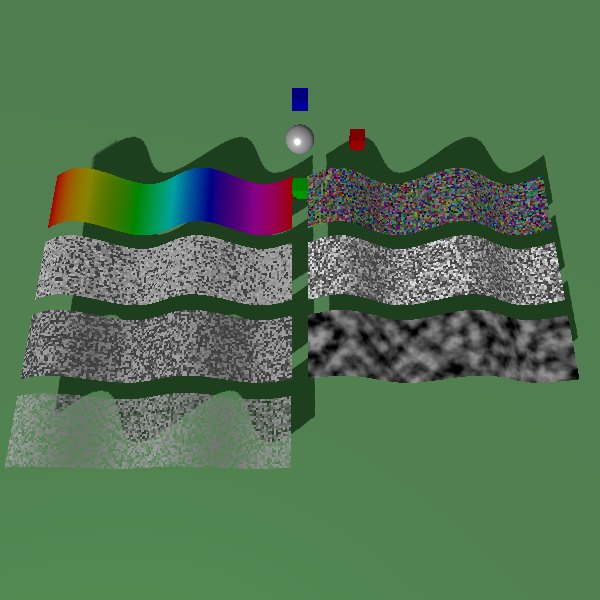
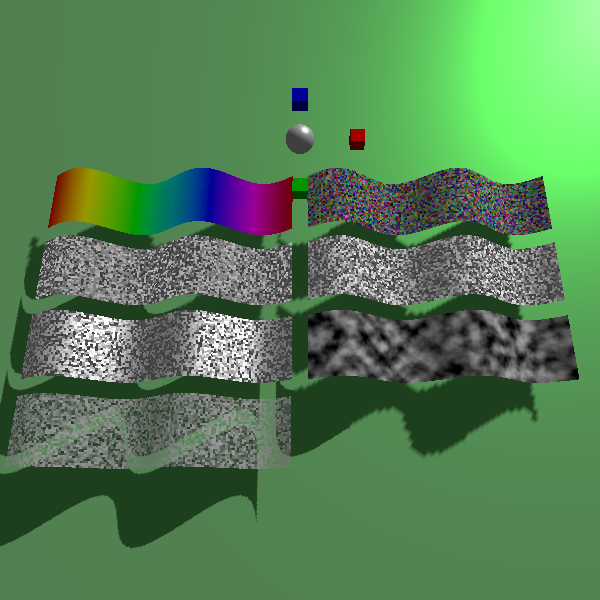
Fix golden image tests

diff --git a/guest/rust/examples/basics/procedural_generation/src/client.rs b/guest/rust/examples/basics/procedural_generation/src/client.rs
@@ -18,6 +18,7 @@ const SIZE_X: f32 = RESOLUTION_X as f32 / RESOLUTION_Y as f32;
 const SIZE_Y: f32 = 1.0;
 const WAVE_AMPLITUDE: f32 = 0.25;
 const WAVE_FREQUENCY: f32 = 0.5 * TAU;
+const ROTATING_SUN: bool = false;
 
 fn make_camera() {
     Entity::new()
@@ -41,15 +42,17 @@ fn make_lighting() {
         .with(light_diffuse(), Vec3::ONE * 4.0)
         .with_default(main_scene())
         .spawn();
-    query(rotation()).requires(sun()).each_frame(move |suns| {
-        for (sun_id, sun_rotation) in suns {
-            entity::set_component(
-                sun_id,
-                rotation(),
-                Quat::from_rotation_z(frametime()) * sun_rotation,
-            );
-        }
-    });
+    if ROTATING_SUN {
+        query(rotation()).requires(sun()).each_frame(move |suns| {
+            for (sun_id, sun_rotation) in suns {
+                entity::set_component(
+                    sun_id,
+                    rotation(),
+                    Quat::from_rotation_z(frametime()) * sun_rotation,
+                );
+            }
+        });
+    }
 }
 
 fn make_coordinate_system() {
